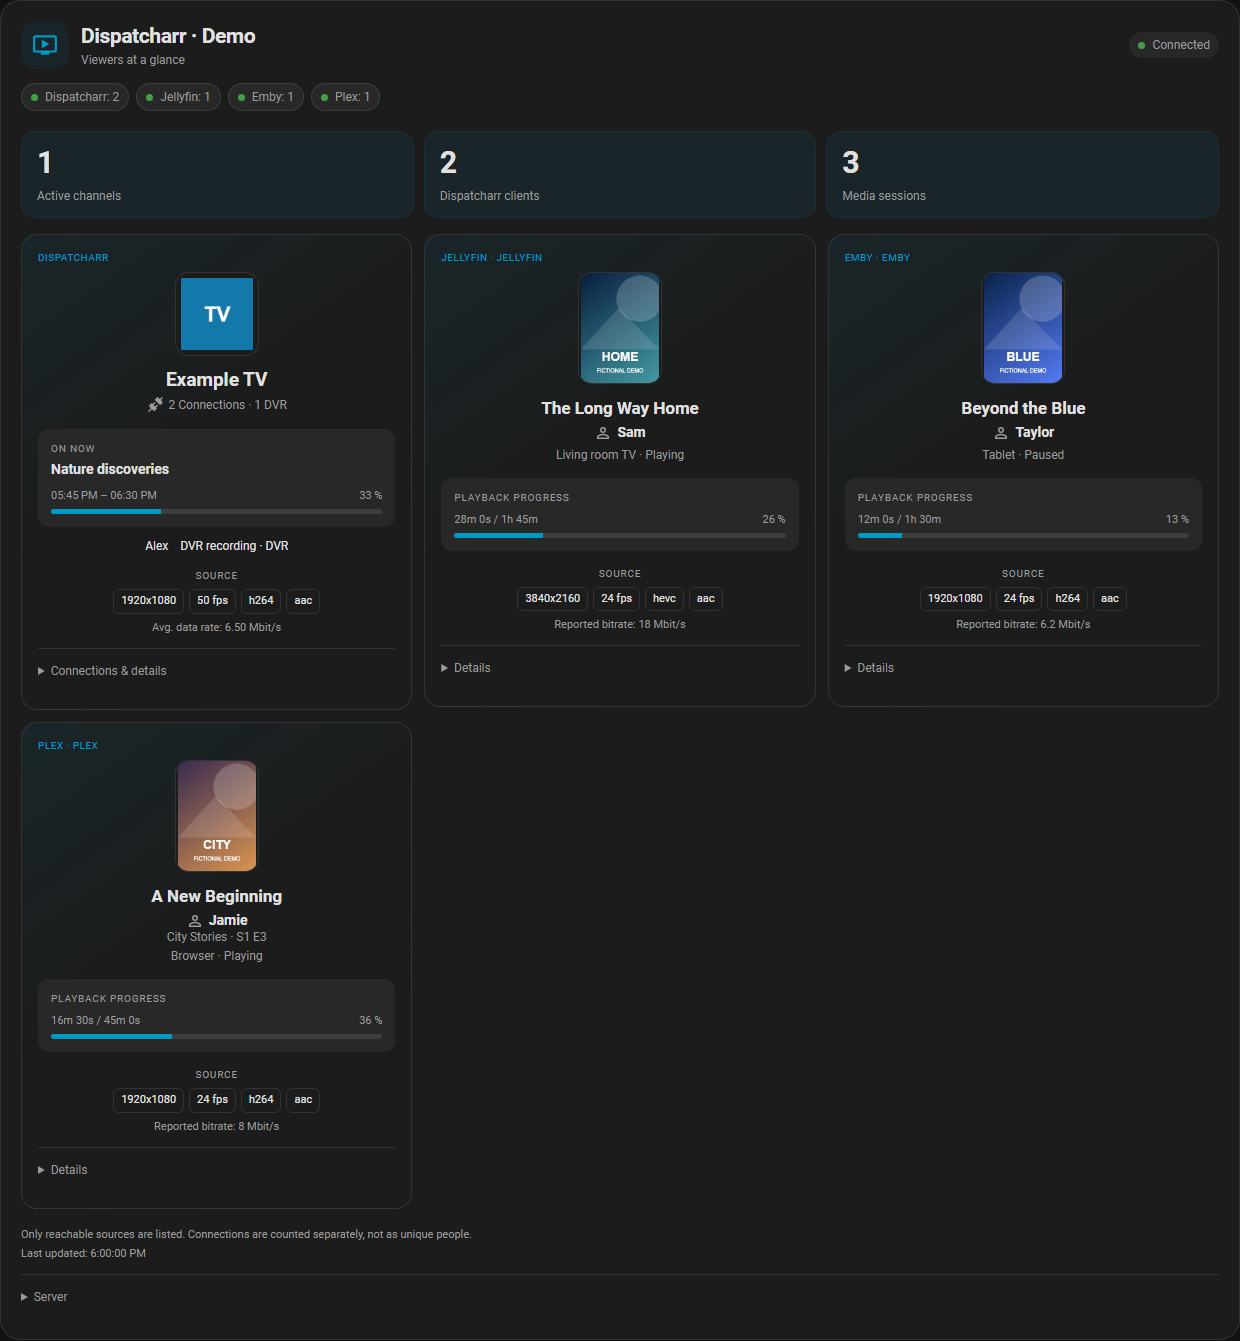
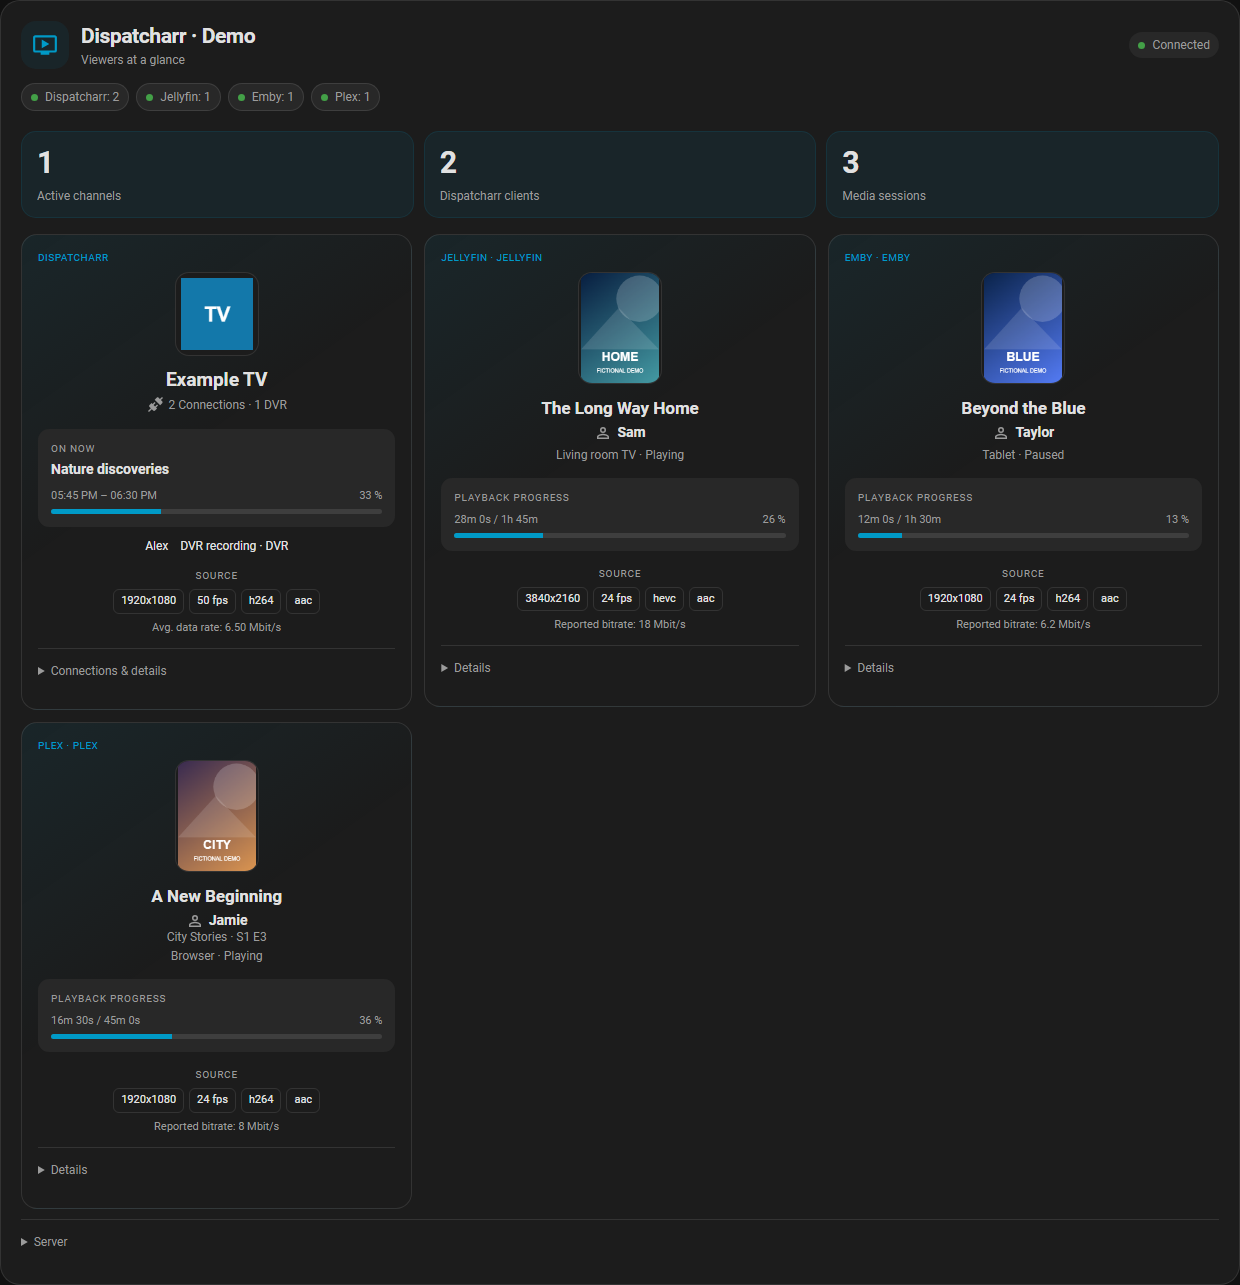
Simplify card footer and keep source timestamps in server details

diff --git a/custom_components/dispatcharr/www/dispatcharr-card.js b/custom_components/dispatcharr/www/dispatcharr-card.js
@@ -199,8 +199,7 @@ class DispatcharrCard extends HTMLElement {
     }
     if ((!state || !live) && !sources.length) {
       body.append(el("p", this._t(!this._config.entity ? "configure" : !state ? "gone" : "offline"), "empty"));
-      const lastSuccess = data.last_success || this._lastSuccess();
-      if (lastSuccess) body.append(el("div", `${this._t("last")}: ${new Date(lastSuccess).toLocaleString(this._locale())}`, "footer"));
+      if (state || this._lastSuccess()) body.append(this._serverDetails(data, live, sources));
       return;
     }
     const stats = el("div", null, sources.length ? "stats multi" : "stats");
@@ -221,22 +220,19 @@ class DispatcharrCard extends HTMLElement {
     body.append(list);
     const footer = el("div", null, "footer");
     if (data.warnings?.length) footer.append(el("div", this._t("metadata")));
-    if (sources.length) footer.append(el("div", this._t("incomplete")));
-    if (!data.control_enabled) footer.append(el("div", this._t("disabled")));
-    else if (!this._hass.user?.is_admin) footer.append(el("div", this._t("admin")));
-    const lastSuccess = data.last_success || this._lastSuccess();
-    footer.append(el("div", `${this._t("last")}: ${lastSuccess ? new Date(lastSuccess).toLocaleTimeString(this._locale()) : this._t("unknown")}`));
-    if (sources.length) {
-      const details = el("details"); details.open = this._details.has("sources"); details.ontoggle = () => details.open ? this._details.add("sources") : this._details.delete("sources"); details.append(el("summary", this._t("source")));
-      const dl = el("dl");
-      for (const source of sources) dl.append(el("dt", source.name), el("dd", `${this._t(source.connected ? "online" : source.error || "offline")} · ${this._t("last")}: ${source.last_success ? new Date(source.last_success).toLocaleString(this._locale()) : this._t("unknown")}`));
-      details.append(dl); footer.append(details);
-    }
-    body.append(footer);
+    if (footer.childElementCount) body.append(footer);
+    body.append(this._serverDetails(data, live, sources));
     const needed = new Set(rows.filter(r => r.logo_id).map(r => `${data.entry_id}/${r.logo_id}`));
     for (const row of sessions) if (row.image_key) needed.add(`${media.entry_id}/media/${row.source_id}/${row.image_key}`);
     for (const [key, value] of this._logos) if (!needed.has(key)) { if (value.url) URL.revokeObjectURL(value.url); this._logos.delete(key); }
     this._tick();
+  }
+  _serverDetails(data, live, sources) {
+    const details = this._expandable("sources", "source", "server-details"), dl = el("dl");
+    for (const source of [{ name: "Dispatcharr", connected: live, last_success: data.last_success || this._lastSuccess() }, ...sources]) {
+      dl.append(el("dt", source.name), el("dd", `${this._t(source.connected ? "online" : source.error || "offline")} · ${this._t("last")}: ${source.last_success ? new Date(source.last_success).toLocaleString(this._locale()) : this._t("unknown")}`));
+    }
+    details.append(dl); return details;
   }
   _clientName(row) { return this._value(row.device_alias || row.username || (isDvr(row) ? this._t("dvr") : row.device_description)); }
   _expandable(key, label, cls) {

diff --git a/tests/card_browser.py b/tests/card_browser.py
@@ -131,18 +131,26 @@ def main():
             "cardFixture.update({viewers:originalRows});cardFixture.admin=false;cardFixture.update()"
         )
         expect(card.locator(".session-stop")).to_have_count(0)
-        expect(card.get_by_text("Controls require an HA administrator", exact=True)).to_be_visible()
+        expect(card.get_by_text("Controls require an HA administrator", exact=True)).to_have_count(
+            0
+        )
         page.evaluate("cardFixture.admin=true;cardFixture.update()")
 
         page.evaluate("cardFixture.offline=true;cardFixture.update()")
         expect(card.get_by_text("Connection lost", exact=True).first).to_be_visible()
+        expect(card.get_by_text("Last updated", exact=False)).not_to_be_visible()
+        card.locator(".server-details > summary").click()
+        expect(card.locator(".server-details dt")).to_have_text(["Dispatcharr"])
         expect(card.get_by_text("Last updated", exact=False)).to_be_visible()
+        page.evaluate("cardFixture.update()")
+        expect(card.locator(".server-details")).to_have_attribute("open", "")
+        card.locator(".server-details > summary").click()
         page.evaluate(
             "cardFixture.offline=false;cardFixture.update({viewers:[{client_id:'unknown-client'}],control_enabled:false})"
         )
         expect(card.get_by_text("No current EPG data", exact=True)).to_be_visible()
         expect(card.get_by_text("No logo", exact=True)).to_be_visible()
-        expect(card.get_by_text("Controls are disabled", exact=True)).to_be_visible()
+        expect(card.get_by_text("Controls are disabled", exact=True)).to_have_count(0)
         expect(card.get_by_role("button", name="End session", exact=True)).to_have_count(0)
         assert card.evaluate("e => e.scrollWidth <= e.clientWidth")
         page.set_viewport_size({"width": 1000, "height": 1000})

diff --git a/tests/card_layouts.py b/tests/card_layouts.py
@@ -34,6 +34,26 @@ def check_layouts(page, card):
         expect(card.locator(".client")).to_have_count(4)
         expect(card.locator(".media-viewer")).to_have_count(3)
         expect(card.locator(".stat strong")).to_have_text(["3", "4", "3"])
+        # Routine footer text is absent; each source retains its status/time.
+        expect(card.locator(".footer")).to_have_count(0)
+        server_details = card.locator(".server-details")
+        expect(server_details.locator("dd").first).not_to_be_visible()
+        server_details.locator("summary").click()
+        expect(server_details.locator("dt")).to_have_text(
+            ["Dispatcharr", "jellyfin", "emby", "plex"]
+        )
+        expect(server_details.locator("dd").first).to_contain_text("Connected · Last updated:")
+        expect(server_details.locator("dd").nth(1)).to_have_text(
+            "Connected · Last updated: Unknown"
+        )
+        page.evaluate("cardFixture.update()")
+        expect(server_details).to_have_attribute("open", "")
+        server_details.locator("summary").click()
+        page.evaluate("cardFixture.update({warnings:['metadata unavailable']})")
+        expect(
+            card.get_by_text("Some additional data is currently unavailable.", exact=True)
+        ).to_be_visible()
+        page.evaluate("cardFixture.update({warnings:[]})")
         if layout != "grid":
             expect(card.locator(".preview-name")).to_have_count(4)
             expect(card.locator(".layout-details[open]")).to_have_count(0)

diff --git a/scripts/render_screenshots.py b/scripts/render_screenshots.py
@@ -149,6 +149,14 @@ def capture_layouts(page, card, errors):
                 assert card.evaluate("e => e.scrollWidth <= e.clientWidth")
                 assert not errors, errors
                 card.screenshot(path=str(OUTPUT / f"layout-{layout}{suffix}-{language}.png"))
+        page.set_viewport_size({"width": 640, "height": 1000})
+        page.evaluate("cardFixture.card.style.maxWidth='560px'")
+        card.locator(".server-details > summary").click()
+        card.locator(".server-details").screenshot(
+            path=str(OUTPUT / f"server-details-{language}.png")
+        )
+        card.locator(".server-details > summary").click()
+        page.evaluate("cardFixture.card.style.maxWidth='1240px'")
 
 
 def main():
@@ -190,7 +198,7 @@ def main():
         capture_previews(page, card, errors)
         browser.close()
         print(
-            "Rendered 21 screenshots: layouts, EN/DE, desktop/mobile, grouped, empty, offline, missing data."
+            "Rendered 23 screenshots: layouts, EN/DE, desktop/mobile, grouped, server details, empty, offline, missing data."
         )
 
 

diff --git a/docs/validation.md b/docs/validation.md
@@ -189,11 +189,24 @@ passed 84 backend tests (one upstream warning), the expanded Chromium suite,
 Ruff, hassfest and HACS validation. Native editor checks were repeated against
 the merged beta card without production writes or live session actions.
 
+### Compact footer (0.3.1)
+
+The Chromium suite verifies that routine footer text is absent in every layout,
+while the Server section retains Dispatcharr and optional-source status/times,
+unknown timestamps and expanded state across updates. Dispatcharr-only outages
+retain the last successful update there. Existing permissions and exact-session
+tests still apply.
+
+Native checks on 8 October 2026 used the installed **HA 2026.10.0** frontend with
+the candidate module in an isolated browser context, synthetic state and stubbed
+actions. English/German views and source details passed without server writes or
+live stop requests. No additional test containers were created.
+
 ## Screenshots
 
 All public screenshots contain synthetic users, programmes, logos and source
 measurements. They are not real customer or provider data.
-The current previews show the selectable card layouts included in 0.3.0,
+The current previews show the selectable card layouts with the compact 0.3.1 footer,
 rendered inside the actual HA frontend with synthetic fixture state and stubbed
 image and service calls. Desktop and mobile layouts in English and German show
 a viewer and a reported DVR connection on one channel, alongside all three media

diff --git a/docs/card-layouts.de.md b/docs/card-layouts.de.md
@@ -82,5 +82,15 @@ alle beenden** bleibt eine getrennte Aktion mit Bestätigung. In Liste und Kache
 zuerst **Verbindungen & Details** öffnen. Der Ansichtswechsel startet keine
 Wiedergabe und ändert keine Servereinstellungen.
 
+## Serverstatus
+
+Unter **Server** am Ende jeder Ansicht stehen Verbindungsstatus und letzte
+erfolgreiche Aktualisierung von Dispatcharr und jedem zusätzlichen Medienserver.
+Das funktioniert auch mit Dispatcharr allein und bei einem Verbindungsabbruch.
+Ab 0.3.1 entfallen die dauerhaften Erklärungstexte und die doppelte Zeitangabe
+im Kartenfuß. Tatsächliche Fehler bleiben sichtbar.
+
+![Aufgeklappter Serverstatus mit erfundenen Daten](screenshots/server-details-de.png)
+
 Alle Bilder zeigen erfundene Nutzer, Bilder, Sendungen und Messwerte im echten
 HA-Frontend. Sie enthalten keine echten Zuschauerdaten oder Zugangsdaten.

diff --git a/docs/card-layouts.md b/docs/card-layouts.md
@@ -77,5 +77,14 @@ one connection; **Channel details → Stop channel for everyone** is a separate,
 confirmed action. In the list and tiles, open **Connections & details** first.
 Changing layouts does not start playback or change server configuration.
 
+## Server status
+
+Open **Server** at the bottom of any layout to see the connection status and last
+successful update for Dispatcharr and each optional media server. This also works
+with Dispatcharr alone and during a disconnection. From 0.3.1, the card omits the
+routine footer explanations and duplicate timestamp. Actual errors remain visible.
+
+![Expanded server status with fictional data](screenshots/server-details-en.png)
+
 All screenshots show fictional users, artwork, programmes and measurements rendered
 in the real Home Assistant frontend. They contain no real viewer data or credentials.

diff --git a/CHANGELOG.md b/CHANGELOG.md
@@ -1,5 +1,17 @@
 # Changelog
 
+## Unreleased
+
+- Remove the always-visible source/count explanation, disabled/admin control hints
+  and duplicate update time from the dashboard footer in every layout.
+- Keep connection status and last successful update under the expandable Server
+  section for Dispatcharr and all optional media servers, including outages and
+  Dispatcharr-only setups. Preserve its expanded state during updates.
+- Retain actual metadata warnings and existing control permissions. Refresh the
+  English/German desktop and phone screenshots and server-detail guide images.
+- Require meaningful English changelog entries and matching GitHub release notes
+  for every future release in the contributor instructions.
+
 ## 0.3.0 — 2026-10-06
 
 - Add Grid, Compact list and Logo tiles to the English/German visual card editor.

diff --git a/docs/README.de.md b/docs/README.de.md
@@ -65,6 +65,10 @@ Beispieldaten. Sie veranschaulichen die Karte und zeigen keinen echten Server.
 - Deutsche und englische Oberfläche, HA-Themes, Desktop und Smartphone.
 - Keine zusätzlichen Wiedergaben, keine XMLTV-Komplettabfrage, keine Keys im Browser.
 
+Unter **Server** am Kartenende stehen Verbindungsstatus und letzte erfolgreiche
+Aktualisierung je Quelle. Ab 0.3.1 entfallen die dauerhaften Erklärungstexte und
+die doppelte Zeitangabe. Tatsächliche Verbindungs- und Metadatenprobleme bleiben sichtbar.
+
 ## Sprache auswählen
 
 Einrichtung und Integrationsoptionen folgen der Sprache von Home Assistant.

diff --git a/README.md b/README.md
@@ -125,6 +125,10 @@ work with standard HA cards such as Tile and Entities.
 The [dashboard walkthrough with screenshots](docs/setup.md#4-add-the-dashboard-card)
 shows the **By card** tab and the visual editor.
 
+Open **Server** at the bottom of the card for each source's connection status and
+last successful update. From 0.3.1, routine footer explanations and duplicate
+timestamps are removed; actual connection and metadata warnings remain visible.
+
 ## Choose a language
 
 The setup dialogs and integration options follow your Home Assistant language.

diff --git a/AGENTS.md b/AGENTS.md
@@ -81,3 +81,7 @@ instructions when they change the scope or priorities.
   claiming the work was published.
 - Update the changelog and both integration version constants together when
   preparing a release. Use `scripts/build_release.py`; never package `.local/`.
+- Every future release must include a versioned English entry in `CHANGELOG.md`
+  and matching, meaningful GitHub release notes describing the changes, relevant
+  validation and any upgrade steps. Do not publish empty release notes or rely
+  only on a commit list.
